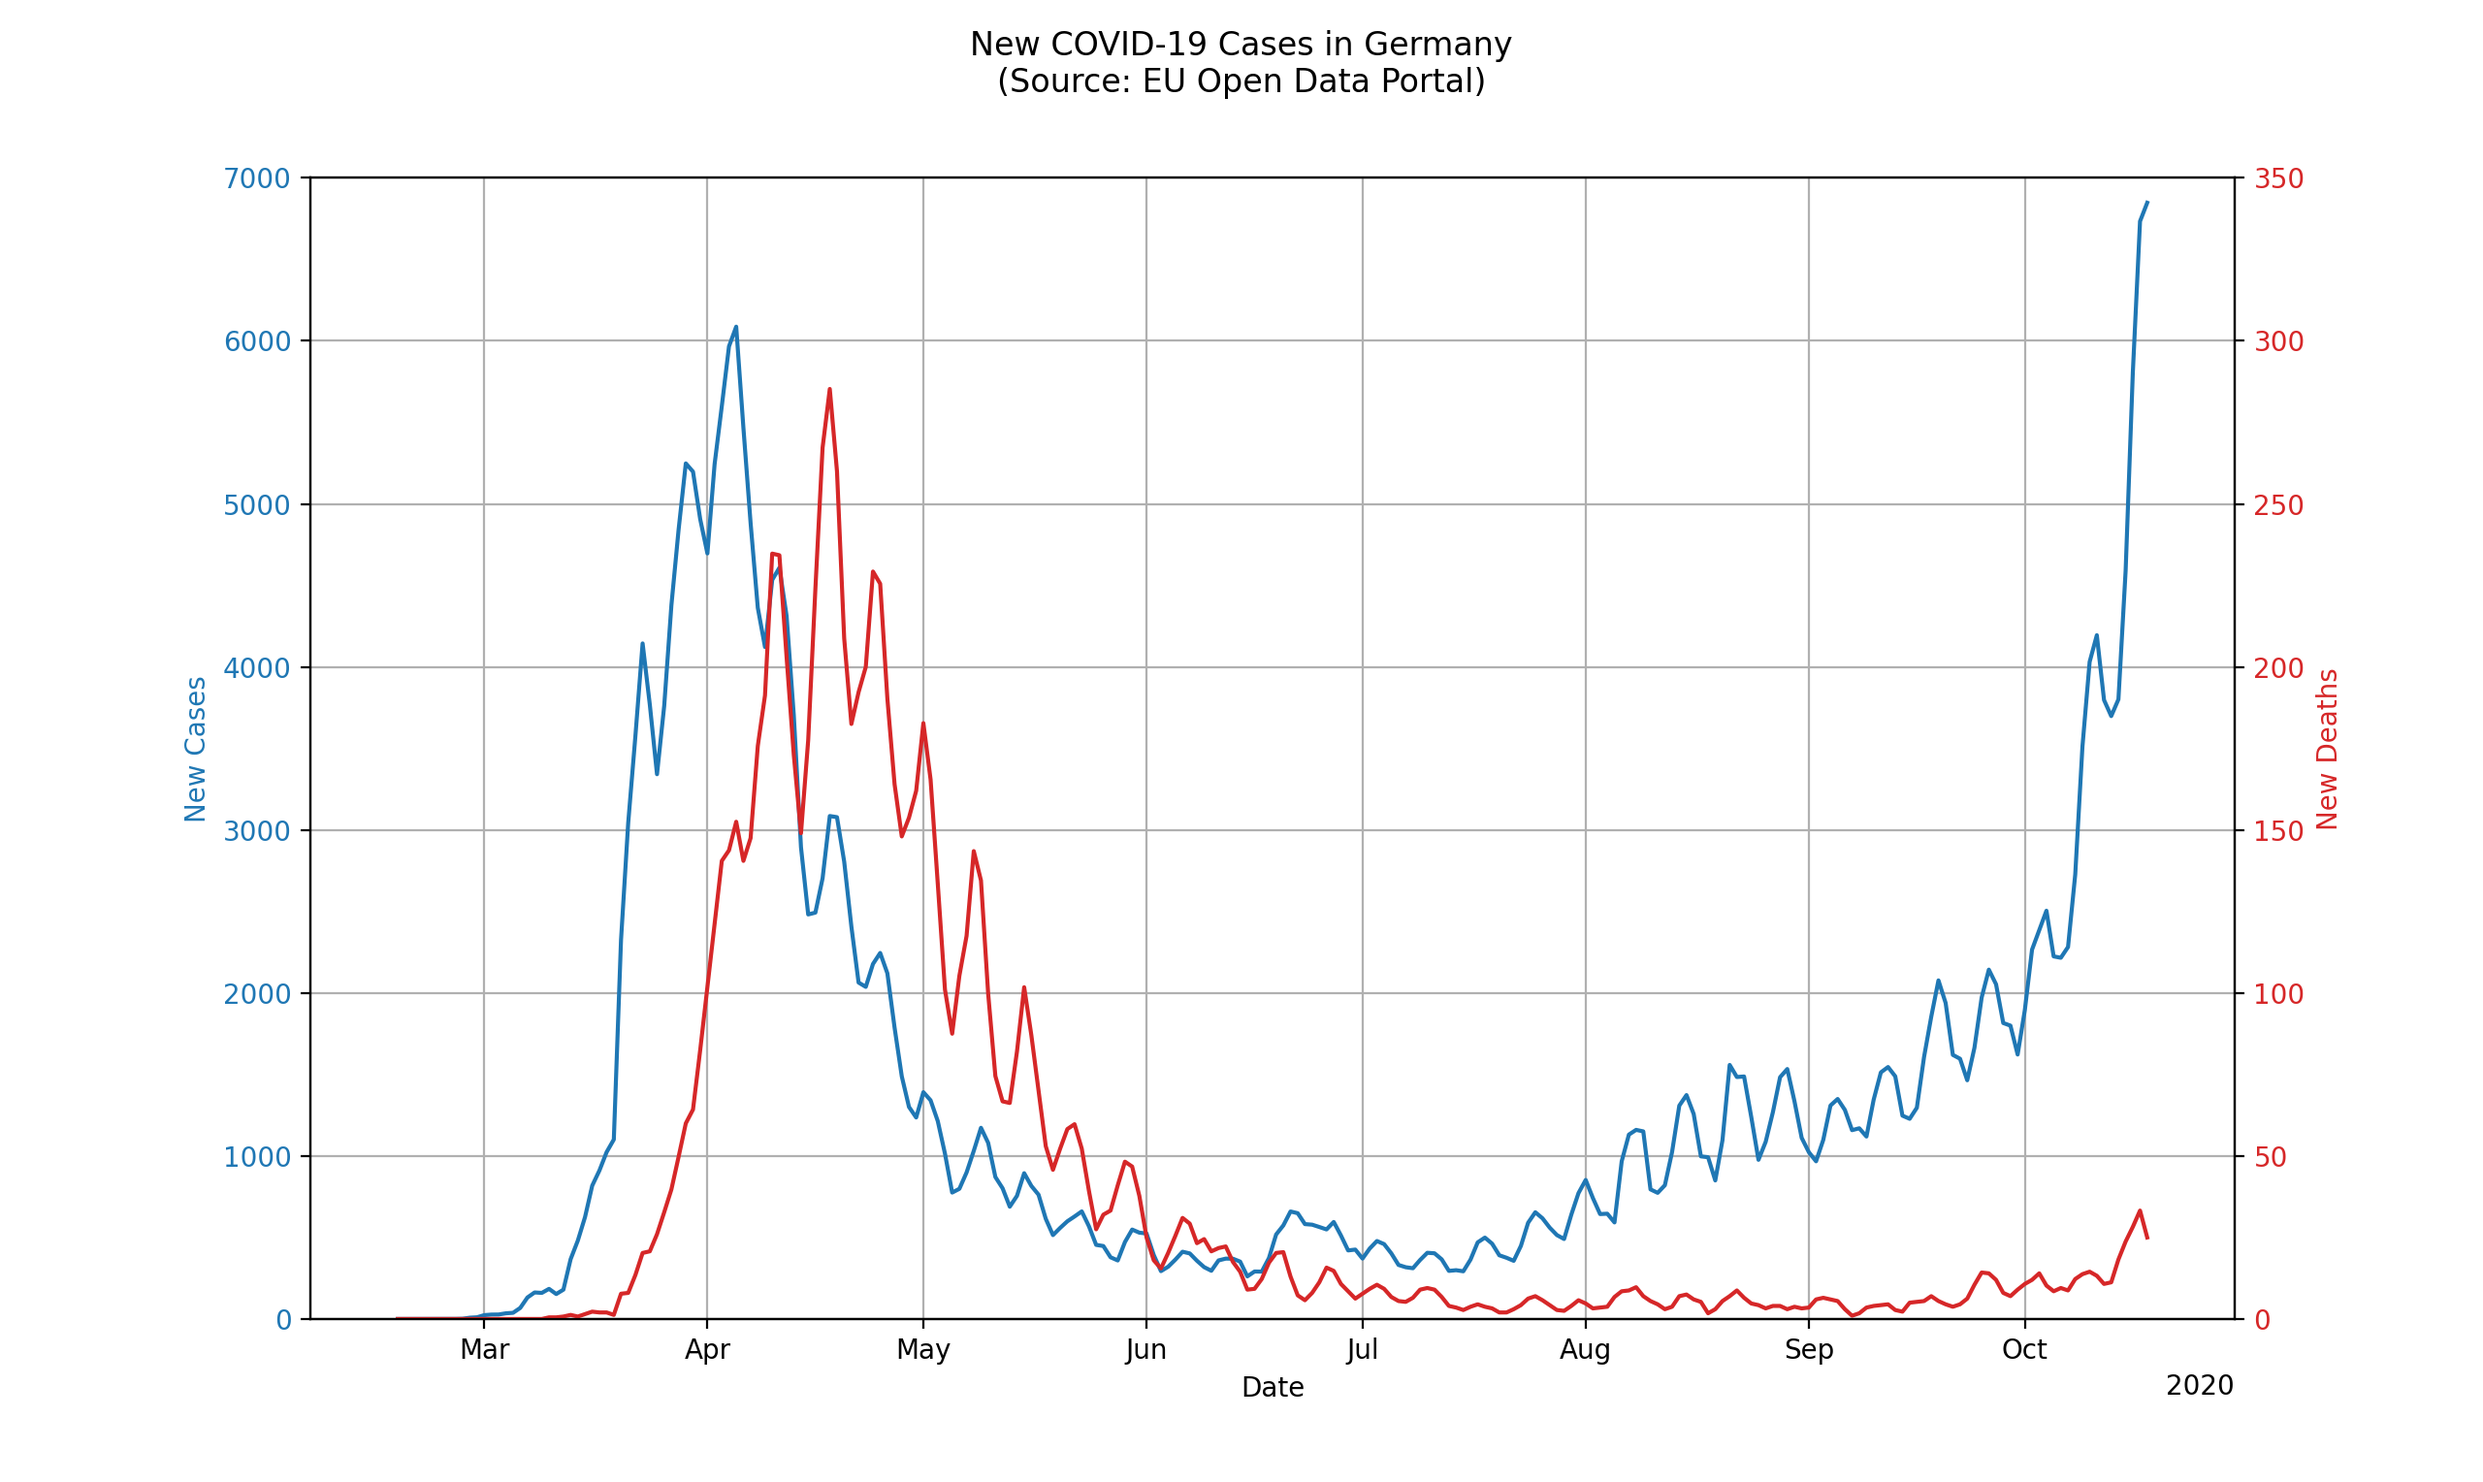
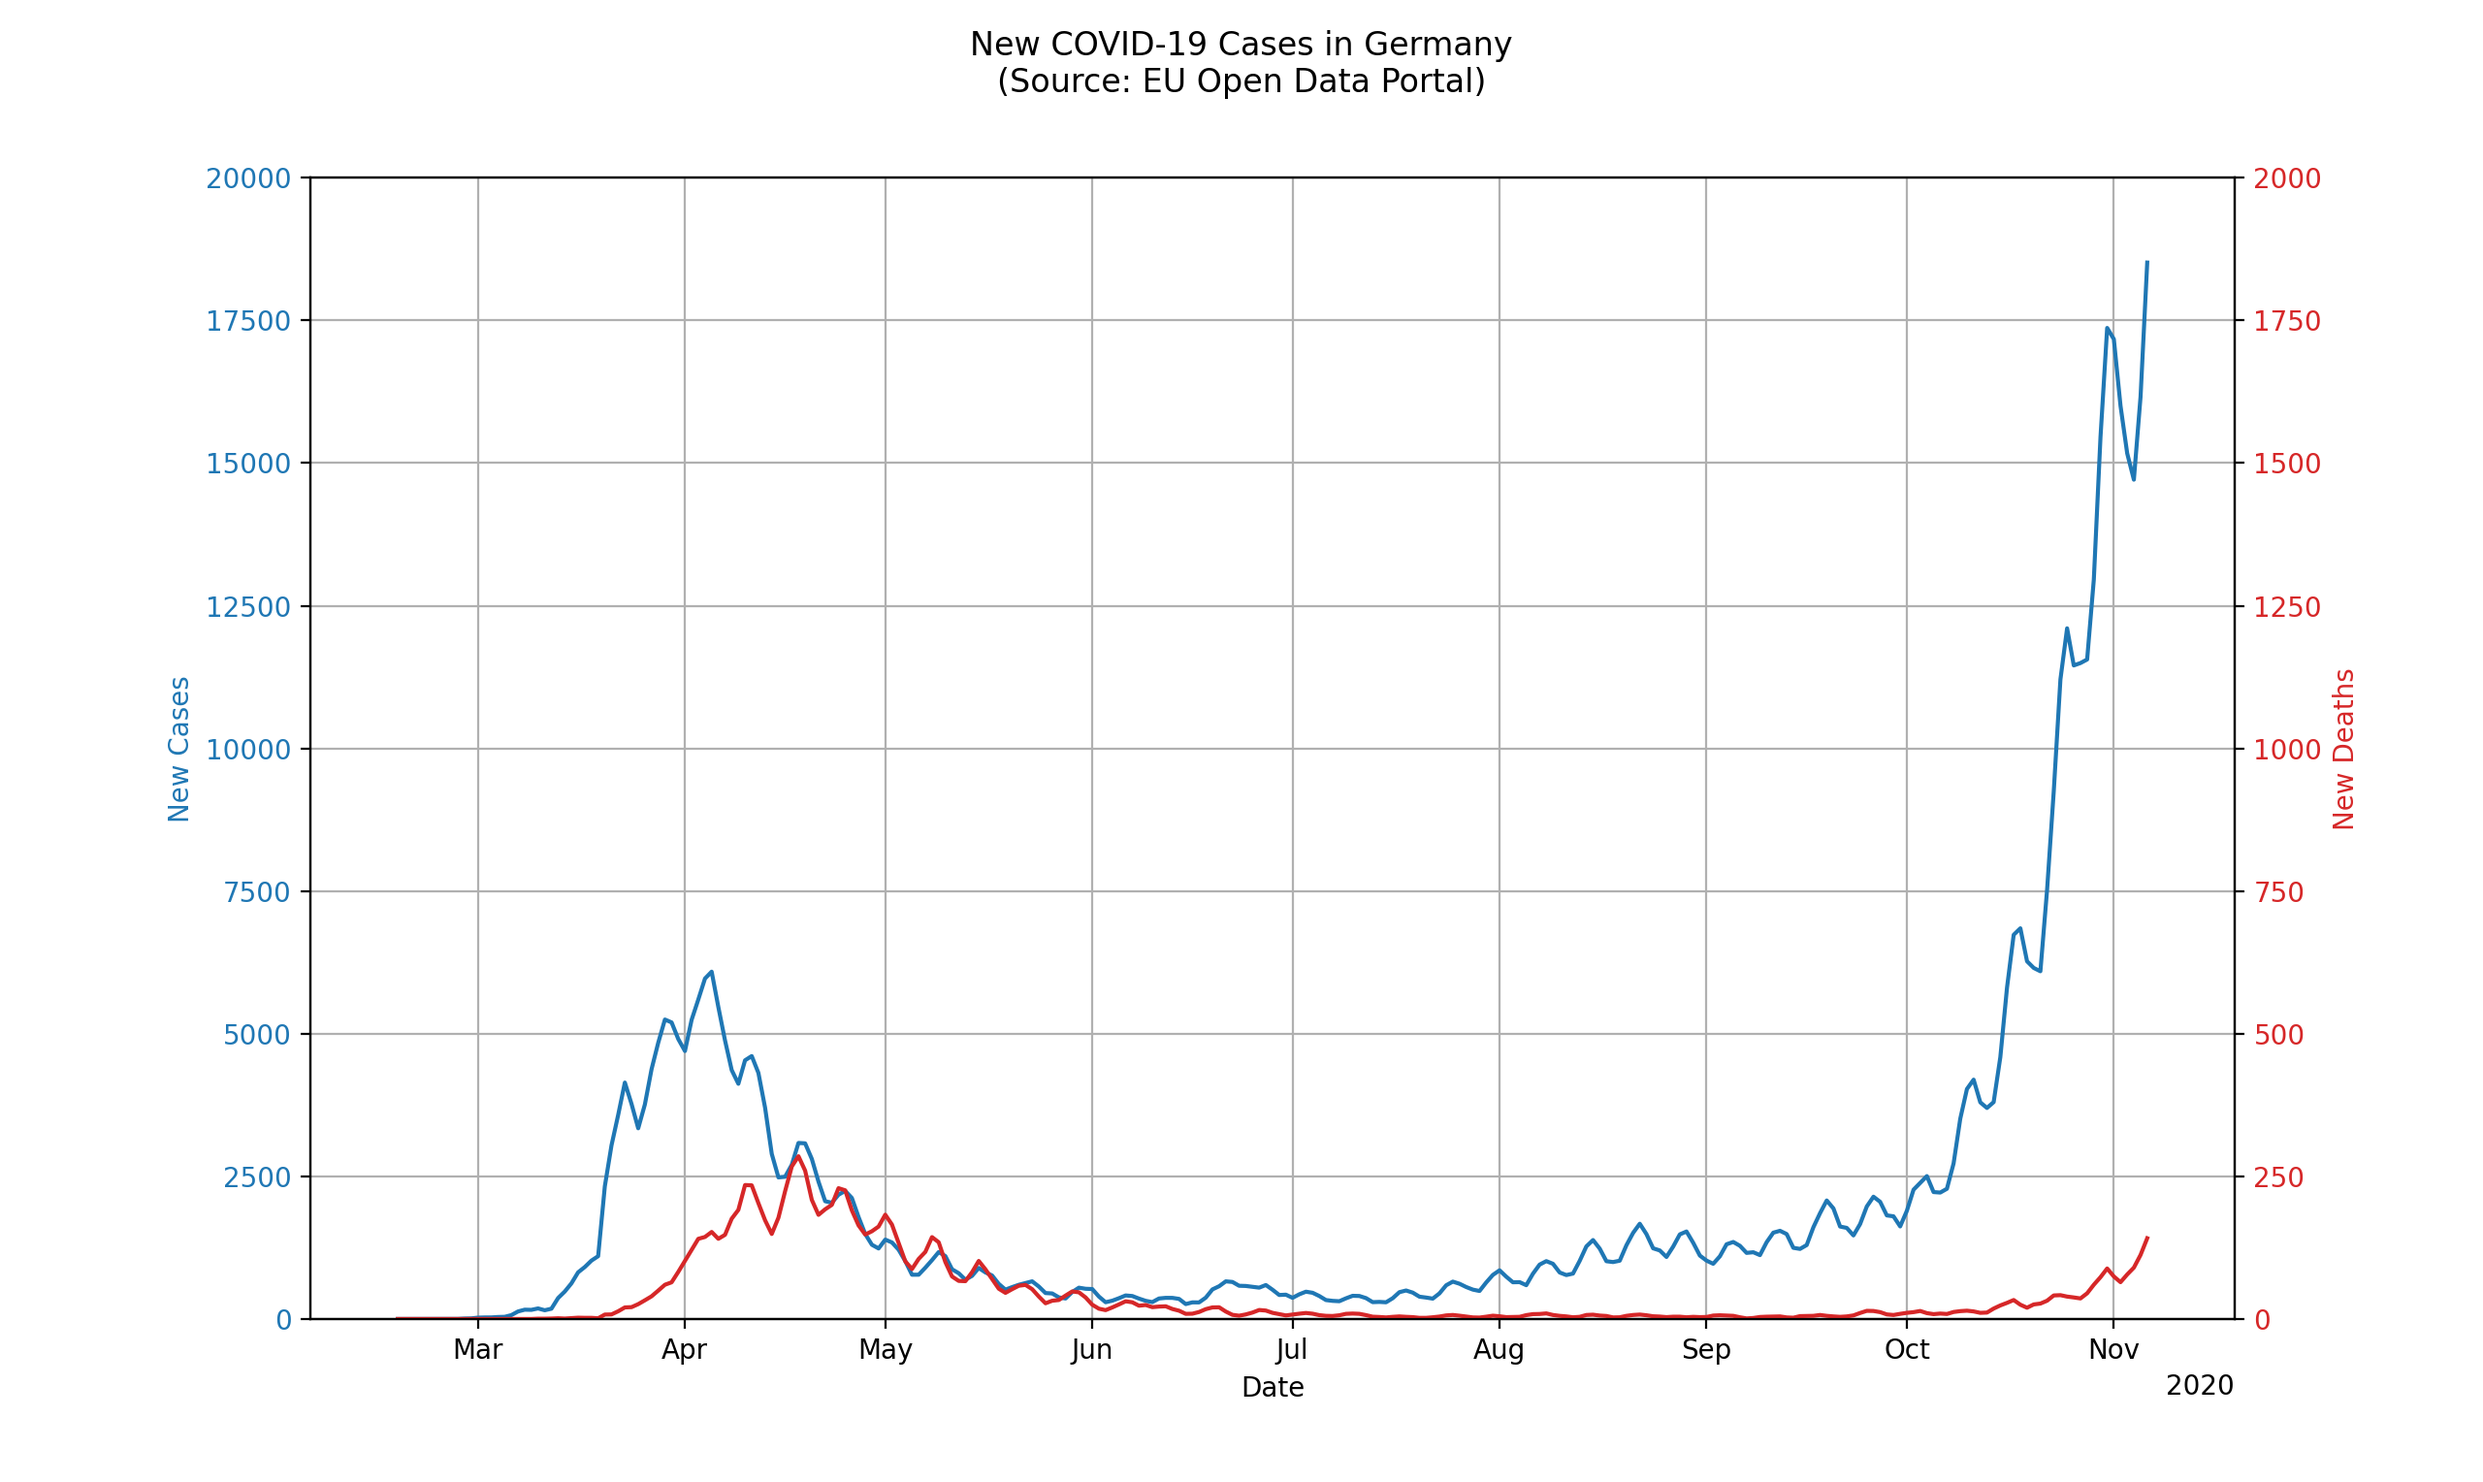
statistics updated

diff --git a/corona_database.py b/corona_database.py
@@ -48,6 +48,9 @@ tests_report =[
         (39, 1168390, 14301, 1.22),
         (40, 1095858, 17964, 1.64),
         (41, 1167428, 29003, 2.48),
+        (42, 1261398, 44733, 3.55),
+        (43, 1401443, 77168, 5.51),
+        (44, 1567083, 113822, 7.26),
         ]
 
 
@@ -158,7 +161,7 @@ def import_corona_cases():
 def import_deaths_germany():
     print("import deaths germany table")
 
-    data_xls = pd.read_excel(cfg.path_deaths_germany, "D_2016_2020_Tage", header=8, index_col=0, nrows=13)
+    data_xls = pd.read_excel(cfg.path_deaths_germany, "D_2016_2020_Tage", header=8, index_col=0, nrows=13, engine="openpyxl")
 
     with db.transaction():
         for year in data_xls.index:
@@ -166,10 +169,13 @@ def import_deaths_germany():
                 if day == "Insgesamt":
                     continue
 
-                month = day.split(".")[1]
-                d = day.split(".")[0]
-                datum = "{}-{}-{}".format(year, month, d)
-                deaths = safe_cast(data_xls[day][year], int, 0)
+                try:
+                    month = day.split(".")[1]
+                    d = day.split(".")[0]
+                    datum = "{}-{}-{}".format(year, month, d)
+                    deaths = safe_cast(data_xls[day][year], int, 0)
+                except:
+                    continue
                 if deaths == 0:
                     continue
 

diff --git a/corona_analysis.py b/corona_analysis.py
@@ -53,8 +53,8 @@ def corona_cases_germany():
     ax2.set_ylabel('New Deaths', color=color)
     ax2.plot(t, b, color=color)
     ax2.tick_params(axis='y', labelcolor=color)
-    ax1.set_ylim([0, 7000])
-    ax2.set_ylim([0, 350])
+    ax1.set_ylim([0, 20000])
+    ax2.set_ylim([0, 2000])
     locator = mdates.AutoDateLocator()
     formatter = mdates.ConciseDateFormatter(locator)
     ax1.xaxis.set_major_locator(locator)
@@ -96,8 +96,8 @@ def positives_to_tests_germany():
     ax2.set_ylabel('Positives Ratio', color=color)
     ax2.plot(time, positives_ratio, color=color)
     ax2.tick_params(axis='y', labelcolor=color)
-    ax1.set_ylim([0, 1200])
-    ax2.set_ylim([0, 0.15])
+    ax1.set_ylim([0, 1700])
+    ax2.set_ylim([0, 0.30])
 
     plt.subplot(2, 1, 2)
     ax1 = plt.gca()
@@ -113,8 +113,8 @@ def positives_to_tests_germany():
     ax2.set_ylabel('Absolute Positives (in thousands)', color=color)
     ax2.plot(time, positives, color=color)
     ax2.tick_params(axis='y', labelcolor=color)
-    ax1.set_ylim([0, 1200])
-    ax2.set_ylim([0, 60])
+    ax1.set_ylim([0, 1700])
+    ax2.set_ylim([0, 120])
 
 
     plt.show()

diff --git a/README.md b/README.md
@@ -62,7 +62,7 @@ Fields in Table `rki_tests`
 The integrated sources so far consist of:
 * the total number of COVID-19 cases reported worlwide, comming from the EU Open Data Portal (https://data.europa.eu/euodp/en/data/dataset/covid-19-coronavirus-data) 
 * the total number of all cause deaths in Germany, reported by the Statistisches Bundesamt (https://www.destatis.de/DE/Themen/Gesellschaft-Umwelt/Bevoelkerung/Sterbefaelle-Lebenserwartung/Tabellen/sonderauswertung-sterbefaelle.html)
-* the total number of performed COVID-19 tests in Germany, reported by the Robert Koch Institute (https://www.rki.de/DE/Content/InfAZ/N/Neuartiges_Coronavirus/Situationsberichte/Okt_2020/2020-10-14-de.pdf?)
+* the total number of performed COVID-19 tests in Germany, reported by the Robert Koch Institute (https://www.rki.de/DE/Content/InfAZ/N/Neuartiges_Coronavirus/Situationsberichte/Nov_2020/2020-11-04-de.pdf)
 
 
 ## Results
